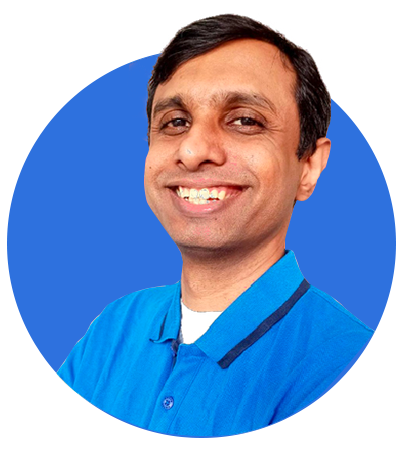
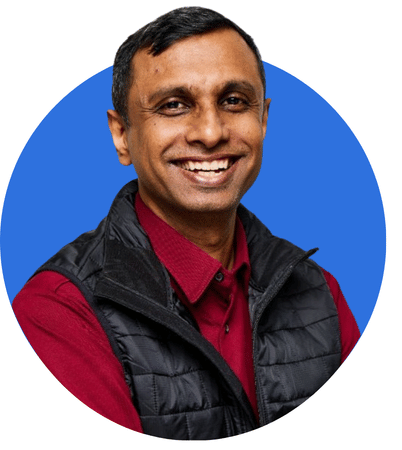
feat: Church content updates - Kids Ministry, Sundays, Leadership, Config
- Updated Kids Ministry page with new content sections
- Updated Sundays FAQ, timeline/schedule, and service block
- Updated Leadership profile image (Liju photo)
- Updated site config with latest church details
- Fixed WorkInProgress component to accept ReactNode
- Added CHANGELOG
- Updated gitignore to exclude node_modules_old

diff --git a/src/constant/config.tsx b/src/constant/config.tsx
@@ -27,9 +27,9 @@ export const homepageLatestSermon = {
 
 export const homepageChurchLocation = {
   title: 'Sunday Worship Service',
-  subtitle: 'Join us every Sunday at 9:45 AM IST',
+  subtitle: 'Join us every Sunday at 9:30 AM - 11:30 AM IST',
   description:
-    'Christ College Back Gate, DVK Annexe Building, 1st Main Rd, near CSB ATM, Tavarekere, Bhavani Nagar, S.G. Palya, Bengaluru, Karnataka 560029',
+    'Christ College Back Gate, DVK Annexe, 2nd Floor 1st Main Rd, near CSB ATM, Tavarekere, Bhavani Nagar, S.G. Palya, Bengaluru, Karnataka 560029',
   link: 'https://maps.app.goo.gl/tM9nLGLn4k2NS2aFA',
   image: '/images/chair.jpg',
   linkText: 'View on maps',
@@ -128,7 +128,11 @@ export const leadershipElders = [
   {
     name: 'George Thomas',
     title: 'ELDER',
-    bio: "George (Liju) was born and brought up in Doha, landed in India as a teenager and has been here ever since. His education has taken him through Trivandrum, Chennai and Pune until he landed in Bangalore where he works in the IT sector. He loves spending time with people one-on-one and in small groups, preferably over a lovely cup of chai, to enable & empower them to discover God's Word for themselves. He and his lovely wife Deepa have the privilege and responsibility of raising and homeschooling their children: Yohan, Yana and Yanica, who keep him on his toes and drive him back to God!",
+    bio: `George (Liju) was born and raised in Doha and moved to India as a teenager, where he has lived ever since. His educational journey took him through Trivandrum, Chennai, and Pune before settling in Bangalore, where he works in the IT sector.
+
+He enjoys investing in people one-on-one and in small groups—often over a good cup of chai—helping them engage personally with God’s Word through honest questions, thoughtful reflection, and sound-boarding as they seek biblical wisdom for life.
+
+Liju and his wife Deepa are grateful for the privilege of raising their three growing children—Yohan, Yana, and Yanica—who continually remind them of their dependence on God.`,
     image: '/images/Liju.png',
   },
   {
@@ -175,7 +179,7 @@ export const contactUsContent = {
   addressHeading: 'Sunday Worship Service',
   addressTitle: 'Grace Bible Fellowship',
   address:
-    'Christ College Back Gate, DVK Annexe Building, 1st Main Rd, near CSB ATM, Tavarekere, Bhavani Nagar, S.G. Palya, Bengaluru, Karnataka 560029',
+    'Christ College Back Gate, DVK Annexe 2nd Floor, 1st Main Rd, near CSB ATM, Tavarekere, Bhavani Nagar, S.G. Palya, Bengaluru, Karnataka 560029',
   addressImage: '/images/jest.jpg',
   disclaimer:
     'When filling out this form, we kindly request that you respect the content provided. Once your information is received, we will promptly respond to your request. Your message is valuable to us, and we appreciate your cooperation and understanding.',
@@ -404,7 +408,7 @@ export const footerSocialLinks = [
     link: 'https://open.spotify.com/show/532PwUNiFxZNYK0faT8hg9?si=7160ad41bcfd49d8',
     component: (
       <svg className="w-6 h-6" viewBox="0 0 24 24" fill="currentColor">
-        <path d="M12 0C5.4 0 0 5.4 0 12s5.4 12 12 12 12-5.4 12-12S18.66 0 12 0zm5.521 17.34c-.24.359-.66.48-1.021.24-2.82-1.74-6.36-2.101-10.561-1.141-.418.122-.779-.179-.899-.539-.12-.421.18-.78.54-.9 4.56-1.021 8.52-.6 11.64 1.32.42.18.479.659.301 1.02zm1.44-3.3c-.301.42-.841.6-1.262.3-3.239-1.98-8.159-2.58-11.939-1.38-.479.12-1.02-.12-1.14-.6-.12-.48.12-1.021.6-1.141C9.6 9.9 15 10.561 18.72 12.84c.361.181.54.78.241 1.2zm.12-3.36C15.24 8.4 8.82 8.16 5.16 9.301c-.6.179-1.2-.181-1.38-.721-.18-.601.18-1.2.72-1.381 4.26-1.26 11.28-1.02 15.721 1.621.539.3.719 1.02.419 1.56-.299.421-1.02.599-1.559.3z"/>
+        <path d="M12 0C5.4 0 0 5.4 0 12s5.4 12 12 12 12-5.4 12-12S18.66 0 12 0zm5.521 17.34c-.24.359-.66.48-1.021.24-2.82-1.74-6.36-2.101-10.561-1.141-.418.122-.779-.179-.899-.539-.12-.421.18-.78.54-.9 4.56-1.021 8.52-.6 11.64 1.32.42.18.479.659.301 1.02zm1.44-3.3c-.301.42-.841.6-1.262.3-3.239-1.98-8.159-2.58-11.939-1.38-.479.12-1.02-.12-1.14-.6-.12-.48.12-1.021.6-1.141C9.6 9.9 15 10.561 18.72 12.84c.361.181.54.78.241 1.2zm.12-3.36C15.24 8.4 8.82 8.16 5.16 9.301c-.6.179-1.2-.181-1.38-.721-.18-.601.18-1.2.72-1.381 4.26-1.26 11.28-1.02 15.721 1.621.539.3.719 1.02.419 1.56-.299.421-1.02.599-1.559.3z" />
       </svg>
     ),
   },
@@ -672,7 +676,7 @@ export const careGroups = [
       <>
         <div className='carousel-cell w-full'>
           <h3>Sarjapur Rd Care Group</h3>
-          <p className='subhead'>Time : 7:00PM, Wednesday</p>
+          <p className='subhead'>Time : 7:00PM, Friday</p>
           <div className='md:text-sm lg:text-base xl:text-lg'>
             <p>
               <strong>Spoc: Ben Kurian</strong>
@@ -692,7 +696,7 @@ export const careGroups = [
       <>
         <div className='carousel-cell w-full'>
           <h3>Marathahalli Care Group</h3>
-          <p className='subhead'>Time : 7:30PM, Thursday</p>
+          <p className='subhead'>Time : 7:00PM, Friday</p>
           <div className='md:text-sm lg:text-base xl:text-lg'>
             <p>
               <strong>Spoc: George Mattackal</strong>
@@ -712,7 +716,7 @@ export const careGroups = [
       <>
         <div className='carousel-cell w-full'>
           <h3>J.P Nagar Care Group</h3>
-          <p className='subhead'>Time : 7:30PM, Friday</p>
+          <p className='subhead'>Time : 7:00PM, Friday</p>
           <div className='md:text-sm lg:text-base xl:text-lg'>
             <p>
               <strong>Spoc: Ramanan</strong>
@@ -732,7 +736,7 @@ export const careGroups = [
       <>
         <div className='carousel-cell w-full'>
           <h3>Electronic City Care Group</h3>
-          <p className='subhead'>Time : 8:00PM, Friday</p>
+          <p className='subhead'>Time : 7:00PM, Friday</p>
           <div className='md:text-sm lg:text-base xl:text-lg'>
             <p>
               <strong>Spoc: Jean Thomas</strong>
@@ -746,26 +750,26 @@ export const careGroups = [
     ),
     mapEmbed: 'https://www.google.com/maps/embed?pb=!1m18!1m12!1m3!1d31120.66348947178!2d77.63522931963954!3d12.837917079147275!2m3!1f0!2f0!3f0!3m2!1i1024!2i768!4f13.1!3m3!1m2!1s0x3bae6c8a7750e1c3%3A0x4a5cfc0fce5af71d!2sElectronic%20City%2C%20Bengaluru%2C%20Karnataka!5e0!3m2!1sen!2sin!4v1752741346091!5m2!1sen!2sin',
   },
-  {
-    title: 'KORAMANGALA',
-    content: (
-      <>
-        <div className='carousel-cell w-full'>
-          <h3>Koramangala Care Group</h3>
-          <p className='subhead'>Time : 5:30PM, Saturday</p>
-          <div className='md:text-sm lg:text-base xl:text-lg'>
-            <p>
-              <strong>Spoc: Justus George</strong>
-            </p>
-            <p>
-              The Koramangala Care group gathers every Saturday at 5:30 PM. They spend their time singing together, sharing, and learning from the Word of God. Each care group is followed by fellowship over dinner.
-            </p>
-          </div>
-        </div>
-      </>
-    ),
-    mapEmbed: 'https://www.google.com/maps/embed?pb=!1m18!1m12!1m3!1d15556.441550940655!2d77.60182550967998!3d12.900622829044938!2m3!1f0!2f0!3f0!3m2!1i1024!2i768!4f13.1!3m3!1m2!1s0x3bae14eec814197d%3A0xcf0ad378f26271e9!2sBommanahalli%2C%20Bengaluru%2C%20Karnataka!5e0!3m2!1sen!2sin!4v1752741318849!5m2!1sen!2sin',
-  },
+  /* {
+     title: 'KORAMANGALA',
+     content: (
+       <>
+         <div className='carousel-cell w-full'>
+           <h3>Koramangala Care Group</h3>
+           <p className='subhead'>Time : 5:30PM, Saturday</p>
+           <div className='md:text-sm lg:text-base xl:text-lg'>
+             <p>
+               <strong>Spoc: Justus George</strong>
+             </p>
+             <p>
+               The Koramangala Care group gathers every Saturday at 5:30 PM. They spend their time singing together, sharing, and learning from the Word of God. Each care group is followed by fellowship over dinner.
+             </p>
+           </div>
+         </div>
+       </>
+     ),
+     mapEmbed: 'https://www.google.com/maps/embed?pb=!1m18!1m12!1m3!1d15556.441550940655!2d77.60182550967998!3d12.900622829044938!2m3!1f0!2f0!3f0!3m2!1i1024!2i768!4f13.1!3m3!1m2!1s0x3bae14eec814197d%3A0xcf0ad378f26271e9!2sBommanahalli%2C%20Bengaluru%2C%20Karnataka!5e0!3m2!1sen!2sin!4v1752741318849!5m2!1sen!2sin',
+   },*/
 ];
 
 export const ourBeliefs = [

diff --git a/src/components/sundayspage/sundays-timeline.tsx b/src/components/sundayspage/sundays-timeline.tsx
@@ -1,11 +1,11 @@
 import { BookOpen, Clock, GraduationCap, Heart, Info, Mic, Users } from 'lucide-react';
 
 const timeline = [
-  { time: '9:45', label: 'Worship', desc: 'A time of congregational praise and thanksgiving', icon: <Clock className="h-6 w-6 text-blue-400" /> },
-  { time: '10:20', label: "Lord's Table", desc: "Remembrance of Christ by partaking of the emblems", icon: <BookOpen className="h-6 w-6 text-blue-400" /> },
-  { time: '10:50', label: 'Sermon', desc: 'Expository sermon with relevant life applications from God\'s Word', icon: <Mic className="h-6 w-6 text-blue-400" /> },
-  { time: '11:20', label: 'Announcements and Prayer', desc: 'Community updates and a time of prayer', icon: <Info className="h-6 w-6 text-blue-400" /> },
-  { time: '11:30', label: 'Fellowship', desc: 'Connect with others over refreshments', icon: <Users className="h-6 w-6 text-blue-400" /> },
+  { time: '9:30', label: 'Worship', desc: 'A time of congregational praise and thanksgiving', icon: <Clock className="h-6 w-6 text-blue-400" /> },
+  { time: '10:05', label: "Lord's Table", desc: "Remembrance of Christ by partaking of the emblems", icon: <BookOpen className="h-6 w-6 text-blue-400" /> },
+  { time: '10:35', label: 'Sermon', desc: 'Expository sermon with relevant life applications from God\'s Word', icon: <Mic className="h-6 w-6 text-blue-400" /> },
+  { time: '11:05', label: 'Announcements and Prayer', desc: 'Community updates and a time of prayer', icon: <Info className="h-6 w-6 text-blue-400" /> },
+  { time: '11:15', label: 'Fellowship', desc: 'Connect with others over refreshments', icon: <Users className="h-6 w-6 text-blue-400" /> },
   { time: '12:00', label: 'Equip Sessions | Kids\' Ministry', desc: 'Practical sessions for daily living | Kids praise & learn', icon: <div className="flex gap-1"><GraduationCap className="h-5 w-5 text-blue-400" /><Heart className="h-5 w-5 text-blue-400" /></div> },
 ];
 
@@ -18,10 +18,10 @@ export function SundaysTimeline() {
           <div className="flex items-center justify-between relative">
             {/* Timeline Line */}
             <div className="absolute top-1/2 left-0 right-0 h-0.5 bg-white/30 transform -translate-y-1/2"></div>
-            
+
             {timeline.map((item, idx) => {
               const isEven = idx % 2 === 0;
-              
+
               return (
                 <div
                   key={`${item.time}-${idx}`}
@@ -39,12 +39,12 @@ export function SundaysTimeline() {
                       </div>
                     </div>
                   )}
-                  
+
                   {/* Time Badge */}
                   <div className="bg-white text-black rounded-full w-16 h-16 flex items-center justify-center text-lg font-bold shadow-lg group-hover:scale-110 transition-transform duration-300">
                     {item.time}
                   </div>
-                  
+
                   {/* Content Card - Below */}
                   {!isEven && (
                     <div className="bg-white/5 backdrop-blur-sm rounded-lg p-4 w-48 h-32 flex flex-col justify-start group-hover:bg-white/10 transition-all duration-300 mt-4">
@@ -70,7 +70,7 @@ export function SundaysTimeline() {
           <div className="grid grid-cols-2 gap-8">
             {timeline.map((item, idx) => {
               const isEven = idx % 2 === 0;
-              
+
               return (
                 <div
                   key={`${item.time}-${idx}`}
@@ -88,12 +88,12 @@ export function SundaysTimeline() {
                       </div>
                     </div>
                   )}
-                  
+
                   {/* Time Badge */}
                   <div className="bg-white text-black rounded-full w-14 h-14 flex items-center justify-center text-base font-bold shadow-lg group-hover:scale-110 transition-transform duration-300">
                     {item.time}
                   </div>
-                  
+
                   {/* Content Card - Below */}
                   {!isEven && (
                     <div className="bg-white/5 backdrop-blur-sm rounded-lg p-3 w-full h-28 flex flex-col justify-start group-hover:bg-white/10 transition-all duration-300 mt-4">
@@ -119,11 +119,11 @@ export function SundaysTimeline() {
           <div className="relative">
             {/* Timeline Line */}
             <div className="absolute left-6 top-0 bottom-0 w-0.5 bg-white/30"></div>
-            
+
             <div className="space-y-6">
               {timeline.map((item, idx) => {
                 const isEven = idx % 2 === 0;
-                
+
                 return (
                   <div
                     key={`${item.time}-${idx}`}
@@ -133,7 +133,7 @@ export function SundaysTimeline() {
                     <div className="bg-white text-black rounded-full w-12 h-12 flex items-center justify-center text-sm font-bold shadow-lg group-hover:scale-110 transition-transform duration-300 relative z-10 flex-shrink-0">
                       {item.time}
                     </div>
-                    
+
                     {/* Content - Left or Right */}
                     <div className="bg-white/5 backdrop-blur-sm rounded-lg p-4 flex-1 h-28 flex flex-col justify-start group-hover:bg-white/10 transition-all duration-300">
                       <div className="flex items-center gap-2 mb-2">

diff --git a/src/app/kids-ministry/page.tsx b/src/app/kids-ministry/page.tsx
@@ -1,14 +1,28 @@
 'use client';
 
 import { WorkInProgress } from '@/components/layout/work-in-progress';
-
 import { otherPages } from '@/constant/config';
 
 export default function KidsMinistryPage() {
   return (
     <WorkInProgress
       pageTitle="Kids' Ministry"
-      pageDescription="We are working on this content. Please check back soon for updates about our Kids' Ministry and how we nurture the faith of children at Grace Bible Fellowship."
+      pageDescription={
+        <>
+          To develop in our children a genuine love for the Lord our God with all their heart, soul,
+          and strength (Book of Deuteronomy 6:5-9).
+          <br />
+          <br />
+          We recognize that this command is given primarily to parents, who are entrusted with the
+          responsibility of nurturing their children in the faith. As a church, our role is to
+          faithfully complement and strengthen the work of parents as they raise their children in
+          the nurture and admonition of the Lord.
+          <br />
+          <br />
+          The local church cannot and should not replace parents in fulfilling God's design for the
+          raising of children, but rather partner with them in obedience to His Word.
+        </>
+      }
       otherPagesData1={otherPages[1]}
       otherPagesData2={otherPages[2]}
     />

diff --git a/src/components/sermonspage/sunday-service-block.tsx b/src/components/sermonspage/sunday-service-block.tsx
@@ -10,14 +10,14 @@ export function SundayServiceBlock() {
             <h2 className="text-3xl font-bold mb-4">Sunday Worship Service</h2>
             <div className="flex items-center gap-3 mb-2">
               <Clock className="h-6 w-6 text-blue-600" />
-              <span className="text-lg font-semibold">9:45 AM – 12:00 PM</span>
+              <span className="text-lg font-semibold">9:30 AM – 11:30 PM</span>
             </div>
             <div className="flex items-center gap-3 mb-2">
               <MapPin className="h-6 w-6 text-blue-600" />
-              <span className="text-base font-semibold">Christ College Back Gate, DVK Annexe Building</span>
+              <span className="text-base font-semibold">Christ College Back Gate, DVK Annexe 2nd floor</span>
             </div>
             <div className="text-base text-gray-700 mb-4">
-              1st Main Rd, near CSB ATM, Tavarekere, Bhavani Nagar, S.G. Palya, Bengaluru, Karnataka 560029
+              2nd Floor 1st Main Rd, near CSB ATM, Tavarekere, Bhavani Nagar, S.G. Palya, Bengaluru
             </div>
           </div>
           {/* Map Embed */}

diff --git a/src/components/layout/work-in-progress.tsx b/src/components/layout/work-in-progress.tsx
@@ -5,7 +5,7 @@ import { otherPages } from '@/constant/config';
 
 interface WorkInProgressProps {
   pageTitle: string;
-  pageDescription: string;
+  pageDescription: string | React.ReactNode;
   otherPagesData1?: typeof otherPages[0];
   otherPagesData2?: typeof otherPages[1];
 }

diff --git a/src/components/sundayspage/sundays-faq.tsx b/src/components/sundayspage/sundays-faq.tsx
@@ -6,7 +6,7 @@ export function SundaysFAQ() {
     },
     {
       question: 'How long is the service?',
-      answer: 'Services last approximately 2 hours and 15 minutes, including worship, message, fellowship, and additional activities for kids and adults.',
+      answer: 'The Sunday Service last approximately 2 hours followed by a time for fellowship and additional activities for kids and adults.',
     },
     {
       question: 'Will I be singled out as a visitor?',

diff --git a/CHANGELOG.md b/CHANGELOG.md
@@ -1,0 +1,57 @@
+# Changelog
+
+All notable changes to this project will be documented in this file.
+
+The format is based on [Keep a Changelog](https://keepachangelog.com/en/1.0.0/),
+and this project adheres to [Semantic Versioning](https://semver.org/spec/v2.0.0.html).
+
+## [Unreleased]
+
+### Added
+- Line ending normalization (LF to CRLF for Windows compatibility)
+
+### Changed
+- Initialized Git repository locally from zip file download
+
+### Fixed
+- Git configuration for line endings consistency
+
+### Deprecated
+
+### Removed
+
+### Security
+
+## [0.1.0] - 2026-03-28
+
+### Added
+- Initial project setup
+- Next.js framework with TypeScript
+- Tailwind CSS styling
+- ESLint and Prettier for code formatting
+- Jest testing setup
+- Multiple church-related pages (sermons, podcasts, leadership, etc.)
+- Contact form functionality
+- Responsive layout components
+
+### Features
+- Sermon and podcast management
+- Church information pages
+- Leadership directory
+- Care groups page
+- Kids ministry page
+- Sports community page
+- Contact form with email integration
+
+---
+
+## Guidelines for Updates
+
+- Use `Added` for new features
+- Use `Changed` for changes in existing functionality
+- Use `Deprecated` for soon-to-be removed features
+- Use `Removed` for now removed features
+- Use `Fixed` for any bug fixes
+- Use `Security` for vulnerability fixes
+
+When releasing a new version, create a new section with the version number and date.